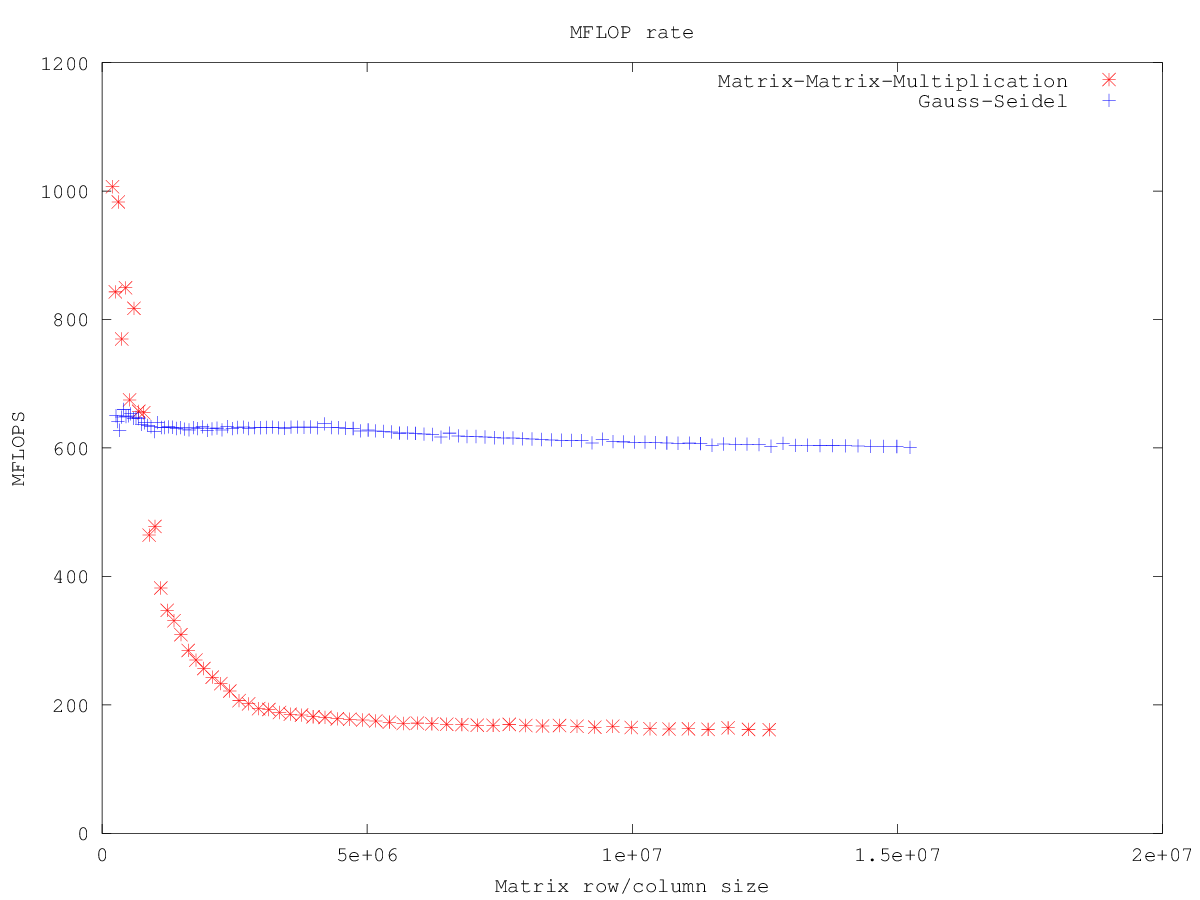
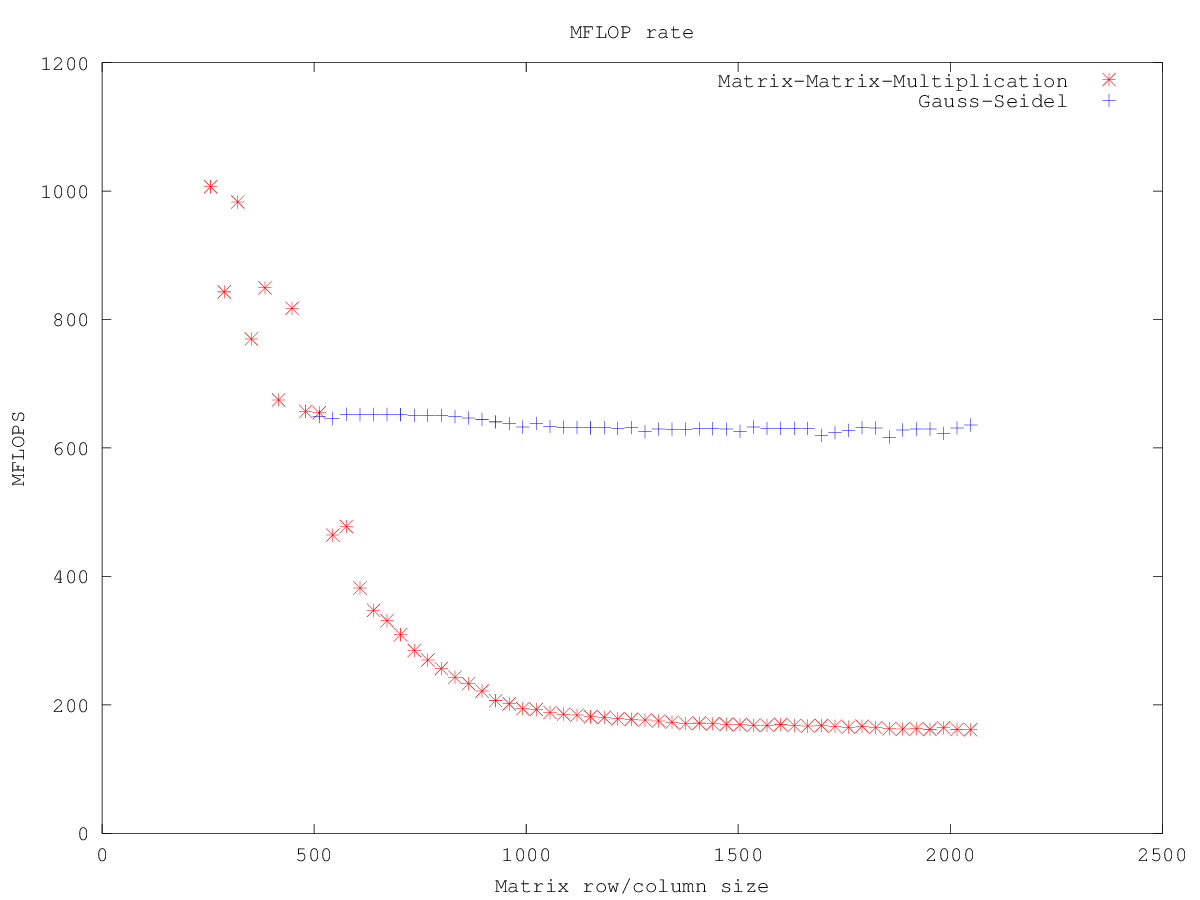
phlr2 done

diff --git a/phlr/ex2/visualize.m b/phlr/ex2/visualize.m
@@ -57,113 +57,55 @@ mmm = [256, 1006.643026;
 2016, 161.933021;
 2048, 161.343642];
 
-gs = [512, 650.250000;
-544, 640.940802;
-576, 627.573333;
-608, 648.062576;
-640, 660.070459;
-672, 649.013612;
-704, 649.850000;
-736, 653.037576;
-768, 645.968723;
-800, 647.597837;
-832, 645.844759;
-864, 636.895767;
-896, 639.388800;
-928, 635.167407;
-960, 632.940690;
-992, 625.595412;
-1024, 639.480326;
-1056, 631.799970;
-1088, 631.819004;
-1120, 632.872911;
-1152, 632.270664;
-1184, 630.281267;
-1216, 631.626406;
-1248, 629.398804;
-1280, 628.186154;
-1312, 631.693058;
-1344, 630.075053;
-1376, 632.807775;
-1408, 627.566984;
-1440, 629.800363;
-1472, 630.919708;
-1504, 628.121618;
-1536, 633.136002;
-1568, 630.155582;
-1600, 631.819807;
-1632, 632.595238;
-1664, 630.169854;
-1696, 631.846343;
-1728, 631.606442;
-1760, 631.802055;
-1792, 632.388366;
-1824, 631.318769;
-1856, 630.700183;
-1888, 632.354844;
-1920, 632.445568;
-1952, 631.994635;
-1984, 632.750259;
-2016, 631.314553;
-2048, 637.479756;
-2080, 631.914809;
-2112, 631.503546;
-2144, 630.675681;
-2176, 630.170343;
-2208, 626.579675;
-2240, 628.043135;
-2272, 626.492401;
-2304, 625.890359;
-2336, 624.958564;
-2368, 623.149149;
-2400, 623.350196;
-2432, 622.660863;
-2464, 621.686724;
-2496, 620.968756;
-2528, 616.987303;
-2560, 623.177524;
-2592, 618.733377;
-2624, 617.967101;
-2656, 617.869825;
-2688, 617.071734;
-2720, 616.054901;
-2752, 615.671684;
-2784, 615.469105;
-2816, 614.241527;
-2848, 614.002554;
-2880, 613.168502;
-2912, 612.520906;
-2944, 612.047026;
-2976, 611.735551;
-3008, 611.231434;
-3040, 607.866817;
-3072, 613.666881;
-3104, 609.978163;
-3136, 609.428564;
-3168, 609.026311;
-3200, 609.064319;
-3232, 608.332450;
-3264, 607.747425;
-3296, 607.300664;
-3328, 607.539213;
-3360, 606.789121;
-3392, 604.317319;
-3424, 606.216653;
-3456, 605.845976;
-3488, 605.842859;
-3520, 605.199292;
-3552, 602.750124;
-3584, 607.132146;
-3616, 604.209576;
-3648, 604.241705;
-3680, 603.689900;
-3712, 603.688596;
-3744, 603.342162;
-3776, 603.094362;
-3808, 602.731124;
-3840, 602.464029;
-3872, 602.288244;
-3904, 600.813088;];
+gs = [512, 648.897859;
+544, 645.635165;
+576, 652.427723;
+608, 651.898321;
+640, 652.140094;
+672, 652.154806;
+704, 652.000954;
+736, 651.064653;
+768, 650.746146;
+800, 650.907206;
+832, 648.885502;
+864, 646.593857;
+896, 644.545291;
+928, 640.704399;
+960, 637.705227;
+992, 632.662790;
+1024, 638.177662;
+1056, 633.602311;
+1088, 632.383999;
+1120, 631.806678;
+1152, 631.516166;
+1184, 631.706453;
+1216, 630.501030;
+1248, 631.746148;
+1280, 625.180538;
+1312, 629.376567;
+1344, 629.340980;
+1376, 629.292105;
+1408, 629.732765;
+1440, 629.960139;
+1472, 629.388411;
+1504, 625.798700;
+1536, 632.710624;
+1568, 630.425747;
+1600, 630.649334;
+1632, 630.468720;
+1664, 630.649387;
+1696, 619.568821;
+1728, 623.999217;
+1760, 627.525749;
+1792, 631.660979;
+1824, 631.118691;
+1856, 616.743366;
+1888, 627.982301;
+1920, 629.559219;
+1952, 629.639920;
+1984, 622.637604;
+2016, 631.150895;
+2048, 635.785307];
 
 plot(mmm(:,1),mmm(:,2), 'r*')
 hold on
@@ -209,5 +151,11 @@ xlabel('tile width n (logarithmic!)')
 ylabel('MFLOPS')
 title('Tiling and Cache')
 legend('Matrices 1024x1024', 'Matrices 2048x2048')
+xt=2.^(1:12);
+xtl = [];
+for i=xt
+    xtl = [xtl; sprintf('%d', i)];
+end
+set(gca, 'xtick', xt, 'xticklabel', xtl)
 print -dpng tiled.png
 

diff --git a/phlr/ex2/mdoering_writeup.tex b/phlr/ex2/mdoering_writeup.tex
@@ -50,23 +50,19 @@ Außerdem muss \lstinline!result! auf \lstinline!0! initialisiert werden, und da
 \newpage
 \section{Messen von MFLOPS}
 Die C++-Programme für diese Aufgabe befinden sich im Anhang.
-\subsection{}
-Vgl. Abbildung \ref{fig:mflops}.
 \begin{figure}[ht]
 \centering
- \includegraphics[width=.65\linewidth]{mflops.png}
- \caption{MFLOPS über Problemgröße. }
+ \includegraphics[width=.85\linewidth]{mflops.png}
+ \caption{MFLOPS über Problemgröße. Die Rechenleistung bei der Matrix-Matrix-Multiplikation nimmt sehr schnell ab, was sich vermutlich durch die ineffiziente Cache-Nutzung erklärt (vgl. Übungsblatt 1). 
+ Beim Gauß-Seidel-Verfahren bleiben die FLOPS proportional zur Problemgröße, da es quasi lokal arbeitet.}
  \label{fig:mflops}
 \end{figure}
-
-
-\setcounter{subsection}{2}
-\subsection{}
-Vgl. Abbildung \ref{fig:tiled}.
 \begin{figure}[ht]
 \centering
- \includegraphics[width=.65\linewidth]{tiled.png}
- \caption{MFLOPS über Kachelgröße. }
+ \includegraphics[width=.85\linewidth]{tiled.png}
+ \caption{MFLOPS über Kachelgröße. Bei Kacheln der Breite $n=32$ ist ein klarer Peak zu erkennen, da mit dieser Kachelgröße alle 3 Kacheln (A, B, C) gleichzeitig in den L1-Cache (65kB) des Rechners passen. 
+ Das anschließende Plateau bei $n=64$ bzw. $n=128$ repräsentiert die Kachelgrößen, die in den L2-Cache (512kB) passen. Danach nimmt die Leistung wie zu erwarten weiter ab. Ein weiterer Peak wäre wegen der 
+ Cache-Line-Größe bei $n=8$ zu erwarten, dieser wird aber wahrscheinlich durch den Schleifenoverhead gedrückt. Kleinere Kacheln sind offensichtlich ungeeignet, da sie den gegenteiligen Effekt (mehr Cachetraffic) erzeugen.}
  \label{fig:tiled}
 \end{figure}
 

diff --git a/phlr/ex2/4.cpp b/phlr/ex2/4.cpp
@@ -121,7 +121,7 @@ int main(int argc, char** argv)
     
     //analyzeTiledMMM(2048, 1, 2, 1024);
     
-    analyzeGS(1000, 512, 32, 2048);
+    analyzeGS(1000, 2048, 128, 4096);
     return 0;
 }
 
